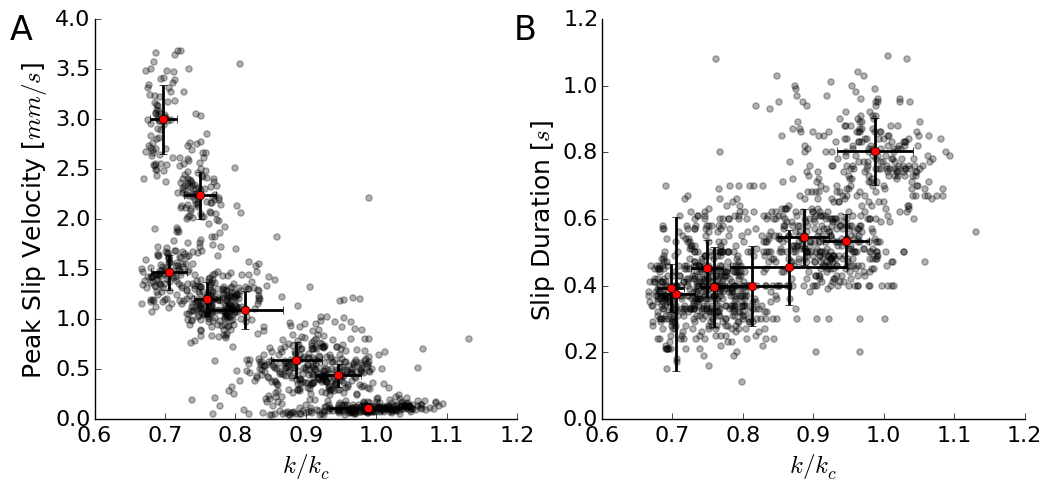
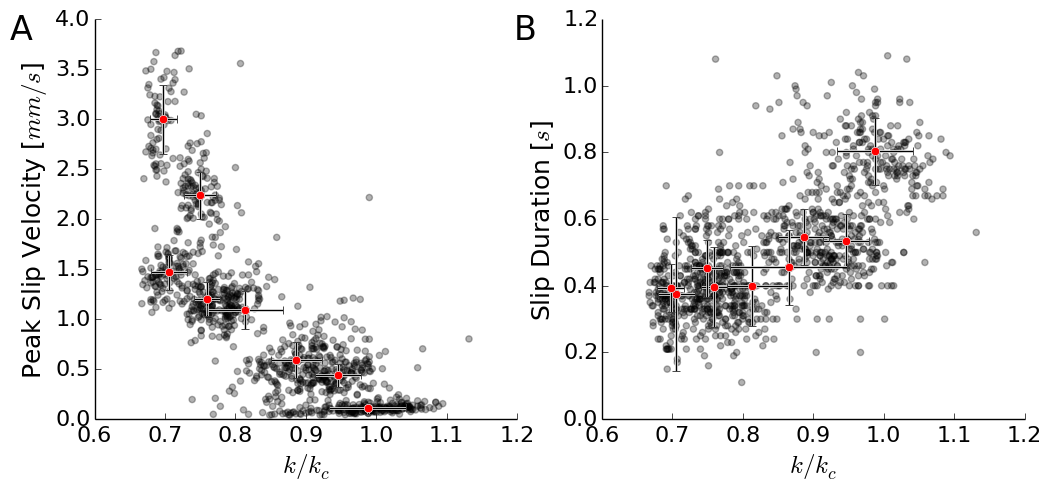
Add errorbar white outlines and marker white outlines to help readability

diff --git a/Figures/Fig_Event_Summary/make_final_plot.py b/Figures/Fig_Event_Summary/make_final_plot.py
@@ -89,7 +89,8 @@ for key in experiment_event_data:
     event_data = filter(event_data,filter_col,low_val,high_val)
 
     ax1.scatter(event_data[:,5]/0.0007,event_data[:,y_col]/1000.,color='k',alpha=marker_alpha)
-    ax1.errorbar(np.mean(event_data[:,5]/0.0007),np.mean(event_data[:,y_col]/1000.),fmt='ro',ecolor='k',elinewidth=2,xerr=np.std(event_data[:,5]/0.0007),yerr=np.std(event_data[:,y_col]/1000.))
+    ax1.errorbar(np.mean(event_data[:,5]/0.0007),np.mean(event_data[:,y_col]/1000.),fmt='ro',ecolor='w',elinewidth=2,xerr=np.std(event_data[:,5]/0.0007),yerr=np.std(event_data[:,y_col]/1000.))
+    ax1.errorbar(np.mean(event_data[:,5]/0.0007),np.mean(event_data[:,y_col]/1000.),fmt='ro',markeredgecolor='w',ecolor='k',elinewidth=1,xerr=np.std(event_data[:,5]/0.0007),yerr=np.std(event_data[:,y_col]/1000.))
 
 ax1.set_ylim(0,4)
 #ax1.set_xlim(4.5,8.5)
@@ -124,7 +125,10 @@ for key in experiment_event_data:
     event_data = filter(event_data,filter_col,low_val,high_val)
 
     ax2.scatter(event_data[:,5]/0.0007,event_data[:,y_col],color='k',alpha=marker_alpha)
-    ax2.errorbar(np.mean(event_data[:,5]/0.0007),np.mean(event_data[:,y_col]),fmt='ro',ecolor='k',elinewidth=2,xerr=np.std(event_data[:,5]/0.0007),yerr=np.std(event_data[:,y_col]))
+    ax2.errorbar(np.mean(event_data[:,5]/0.0007),np.mean(event_data[:,y_col]),fmt='ro',ecolor='w',elinewidth=2,xerr=np.std(event_data[:,5]/0.0007),yerr=np.std(event_data[:,y_col]))
+    ax2.errorbar(np.mean(event_data[:,5]/0.0007),np.mean(event_data[:,y_col]),fmt='ro',markeredgecolor='w',ecolor='k',elinewidth=1,xerr=np.std(event_data[:,5]/0.0007),yerr=np.std(event_data[:,y_col]))
+
+    #ax2.errorbar(np.mean(event_data[:,5]/0.0007),np.mean(event_data[:,y_col]),fmt='ro',ecolor='k',elinewidth=2,xerr=np.std(event_data[:,5]/0.0007),yerr=np.std(event_data[:,y_col]))
 
 ax2.set_ylim(0,1.2)
 #ax2.set_xlim(4.5,8.5)
